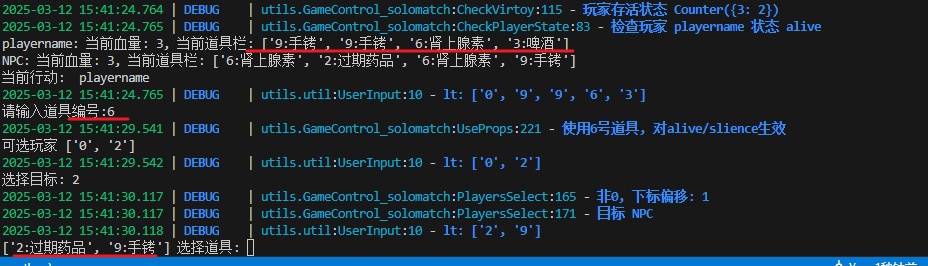
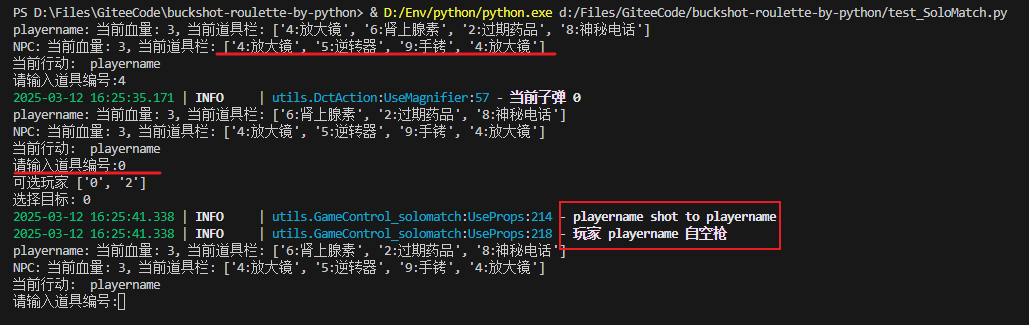
日志调整

Changed region(s): [[0.0, 0.0, 1.0, 1.0], [0.2812, 0.4511, 0.8438, 0.5113]]

diff --git a/utils/GameControl_solomatch.py b/utils/GameControl_solomatch.py
@@ -208,9 +208,10 @@ class PlayerActionsSoloMatch:
             self.RemoveTool(p_slelect)
 
         elif callable(action_shot):
-            log.debug(f"使用0/6号道具, 对alive slience生效")
+            log.debug(f"使用0号道具, 对alive slience生效")
             target_obj = self.PlayersSelect(["alive", "slience"])
             buttle = action_shot(self.current_player, self.round, target_obj)
+            log.info(f"{self.current_player.name} shot to {target_obj.name}")
 
             # 自空枪判断
             if buttle == 0 and target_obj == self.current_player:

diff --git a/utils/__init__.py b/utils/__init__.py
@@ -1,6 +1,11 @@
-import os
+import os,sys
 
 from loguru import logger as log
+# 移除默认的日志处理器
+log.remove()
+
+# 添加一个新的日志处理器，只保留 info 及以上级别的日志
+log.add(sink=sys.stderr, level="INFO")
 
 #
 from .ConsolePrint import PrintStatus, PrintRoundInfo

diff --git a/README.md b/README.md
@@ -1,1 +1,7 @@
 Steam 游戏 BuckshotRoulette 恶魔轮盘 python简易版
+
+
+使用: 道具部分根据编号提示进行输入; 使用数字 0 为开枪, 可选玩家中0号为玩家自己, 其余编号为全部玩家顺序编号
+![alt text](resource/image.png)
+
+日志会对重要进行打印输出, 若想要详细内容可调整打印debug日志
